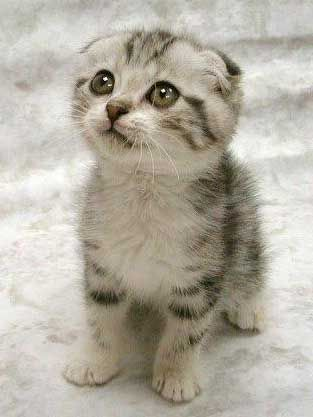
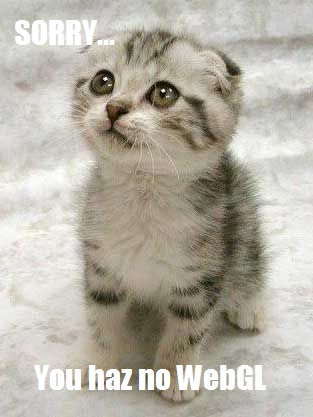
Modified to default directly to the demo Improved "No WebGL" message Improved in game message Added social stuff

Changed region(s): [[0.115, 0.8729, 0.8626, 0.9353], [0.0288, 0.0312, 0.3738, 0.1247]]

diff --git a/Awesome3DGame/Scripts/Game.js b/Awesome3DGame/Scripts/Game.js
@@ -1,5 +1,9 @@
 $(function () {
 
+    //if there's no webgl, just bail
+    if (!Modernizr.webgl)
+        return;
+
     var UPDATE_TOLERANCE = 0.01;
 
     var container;

diff --git a/Awesome3DGame/Controllers/HomeController.cs b/Awesome3DGame/Controllers/HomeController.cs
@@ -10,14 +10,16 @@ namespace Awesome3DGame.Controllers
     {
         public ActionResult Index()
         {
-            ViewBag.Message = "This demo shows building an interactive multiplayer 3D demo using various different technologies";
+            //ViewBag.Message = "This demo shows building an interactive multiplayer 3D demo using various different technologies";
 
-            return View();
+            //return View();
+
+            return RedirectToActionPermanent("Index", "Game");
         }
 
         public ActionResult About()
         {
-            ViewBag.Message = "Your app description page.";
+            ViewBag.Message = "This is an interactive massively multiplayer 3D demo.";
 
             return View();
         }
